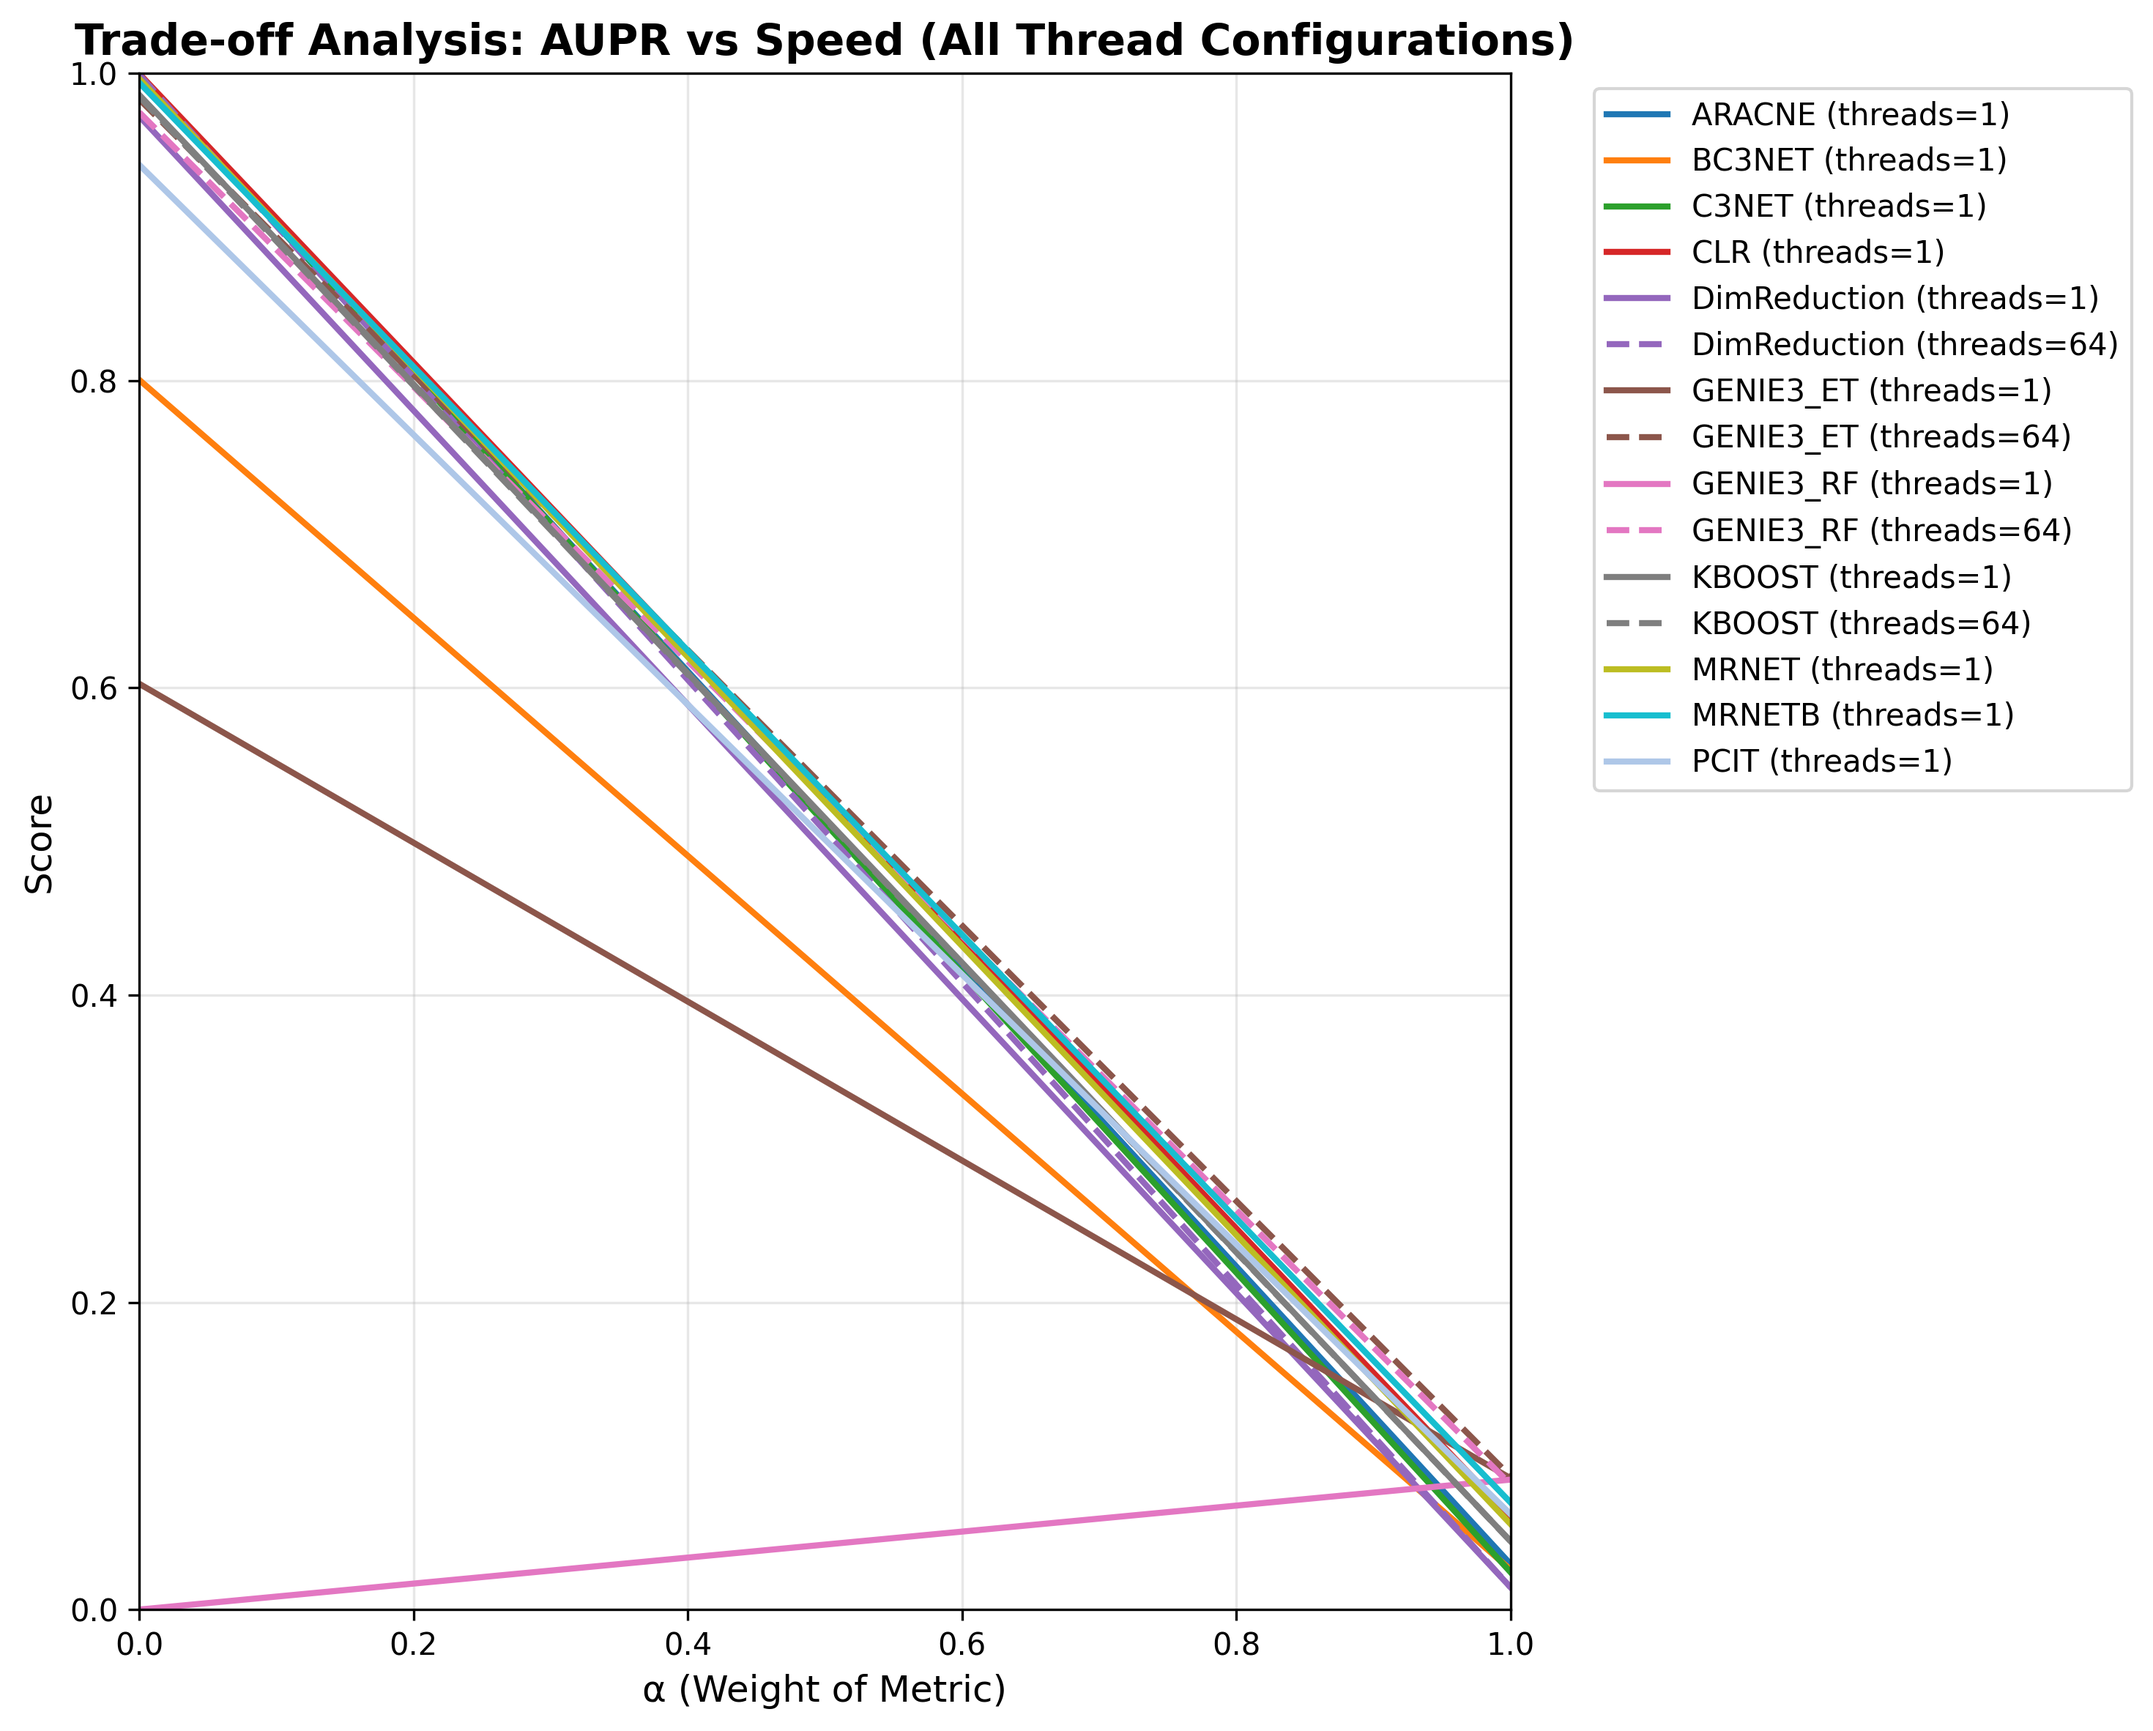
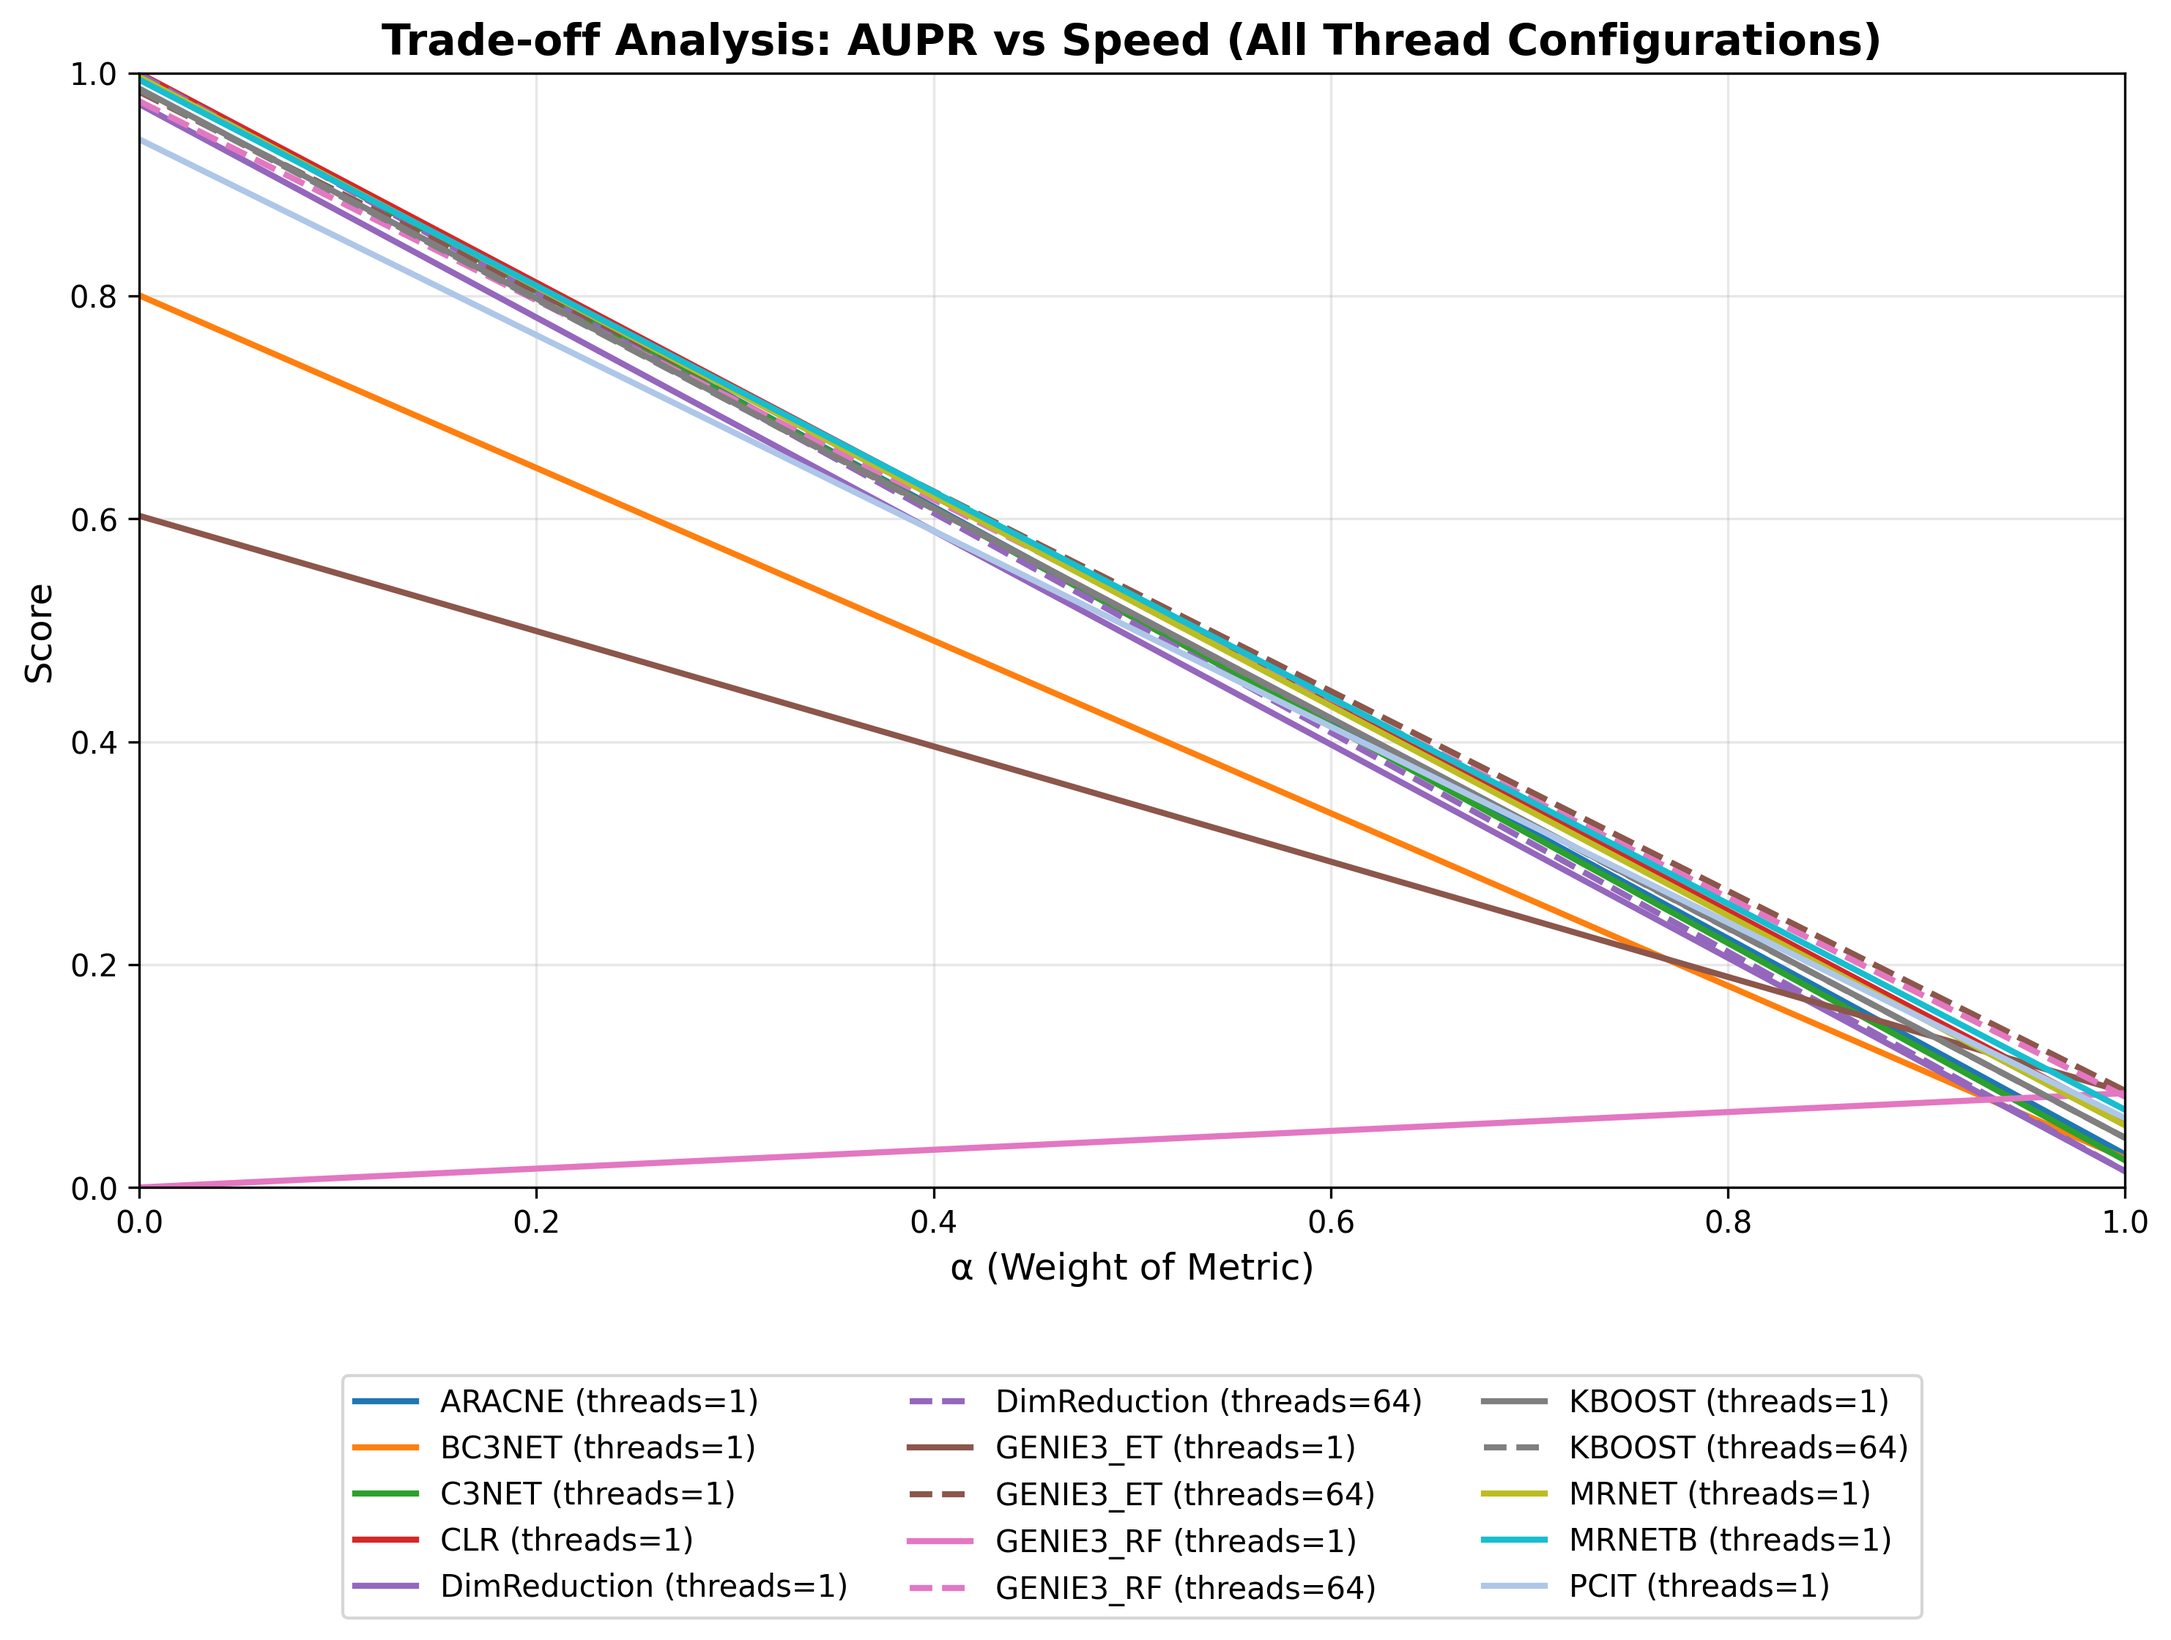
bottom legend

diff --git a/scripts/evaluation_analyzer_2.py b/scripts/evaluation_analyzer_2.py
@@ -469,7 +469,7 @@ class EvaluationAnalyzer:
             ax.set_xlabel('False Positive Rate', fontsize=12)
             ax.set_ylabel('True Positive Rate', fontsize=12)
             ax.set_title('ROC Curve', fontsize=14, fontweight='bold')
-            ax.legend(bbox_to_anchor=(1.05, 1), loc='upper left')
+            ax.legend(loc='lower center', bbox_to_anchor=(0.5, -0.3), ncol=3)
             ax.grid(True, alpha=0.3)
             ax.set_xlim([0, 1])
             ax.set_ylim([0, 1])
@@ -522,7 +522,7 @@ class EvaluationAnalyzer:
             ax.set_xlabel('Recall', fontsize=12)
             ax.set_ylabel('Precision', fontsize=12)
             ax.set_title('Precision-Recall Curve', fontsize=14, fontweight='bold')
-            ax.legend(bbox_to_anchor=(1.05, 1), loc='upper left')
+            ax.legend(loc='lower center', bbox_to_anchor=(0.5, -0.3), ncol=3)
             ax.grid(True, alpha=0.3)
             ax.set_xlim([0, 1])
             ax.set_ylim([0, 1])
@@ -671,7 +671,7 @@ class EvaluationAnalyzer:
             ax.set_xlabel('Rank (k)', fontsize=12)
             ax.set_ylabel('True Positives (TP)', fontsize=12)
             ax.set_title('True Positives (TP) vs. Rank', fontsize=14, fontweight='bold')
-            ax.legend(bbox_to_anchor=(1.05, 1), loc='upper left')
+            ax.legend(loc='lower center', bbox_to_anchor=(0.5, -0.3), ncol=3)
             ax.grid(True, alpha=0.3)
             
             # Set x-axis labels
@@ -761,7 +761,7 @@ class EvaluationAnalyzer:
             ax.set_xlabel('Rank (k)', fontsize=12)
             ax.set_ylabel('False Positives (FP)', fontsize=12)
             ax.set_title('False Positives (FP) vs. Rank', fontsize=14, fontweight='bold')
-            ax.legend(bbox_to_anchor=(1.05, 1), loc='upper left')
+            ax.legend(loc='lower center', bbox_to_anchor=(0.5, -0.3), ncol=3)
             ax.grid(True, alpha=0.3)
             
             # Set x-axis labels
@@ -847,7 +847,7 @@ class EvaluationAnalyzer:
                 ax.set_ylabel('Score', fontsize=12)
                 ax.set_title(f'Trade-off Analysis: {metric.upper()} vs Speed (Thread = {thread_count})', 
                         fontsize=14, fontweight='bold')
-                ax.legend(bbox_to_anchor=(1.05, 1), loc='upper left')
+                ax.legend(loc='lower center', bbox_to_anchor=(0.5, -0.3), ncol=3)
                 ax.grid(True, alpha=0.3)
                 ax.set_xlim([0, 1])
                 ax.set_ylim([0, 1])
@@ -1259,7 +1259,7 @@ class EvaluationAnalyzer:
             ax.set_ylabel('Score', fontsize=12)
             ax.set_title(f'Trade-off Analysis: {metric.upper()} vs Speed (All Thread Configurations)', 
                     fontsize=14, fontweight='bold')
-            ax.legend(bbox_to_anchor=(1.05, 1), loc='upper left')
+            ax.legend(loc='lower center', bbox_to_anchor=(0.5, -0.4), ncol=3)
             ax.grid(True, alpha=0.3)
             ax.set_xlim([0, 1])
             ax.set_ylim([0, 1])
@@ -1489,7 +1489,7 @@ class EvaluationAnalyzer:
             ax.set_xticks(x_pos)
             ax.set_xticklabels(techniques, rotation=45, ha='right')
             ax.set_ylim(0, 1)
-            ax.legend()
+            ax.legend(loc='lower center', bbox_to_anchor=(0.5, -0.4), ncol=2)
             
             # Add value labels on bars
             for bars in [bars_auroc, bars_aupr]:
@@ -1568,7 +1568,7 @@ class EvaluationAnalyzer:
                 ax.set_xticks(x_pos)
                 ax.set_xticklabels(tradeoff_df['technique'], rotation=45, ha='right')
                 ax.set_ylim(0, 1)
-                ax.legend()
+                ax.legend(loc='lower center', bbox_to_anchor=(0.5, -0.4), ncol=2)
                 
                 # Add value labels on bars
                 for bars in [bars_auroc_tradeoff, bars_aupr_tradeoff]:
@@ -1648,7 +1648,7 @@ class EvaluationAnalyzer:
                 ax.set_xticks(x_pos)
                 ax.set_xticklabels(label, rotation=45, ha='right')
                 ax.set_ylim(0, 1)
-                ax.legend()
+                ax.legend(loc='lower center', bbox_to_anchor=(0.5, -0.5), ncol=2)
                 
                 # Add value labels on bars
                 for bars in [bars_auroc_tradeoff, bars_aupr_tradeoff]:
